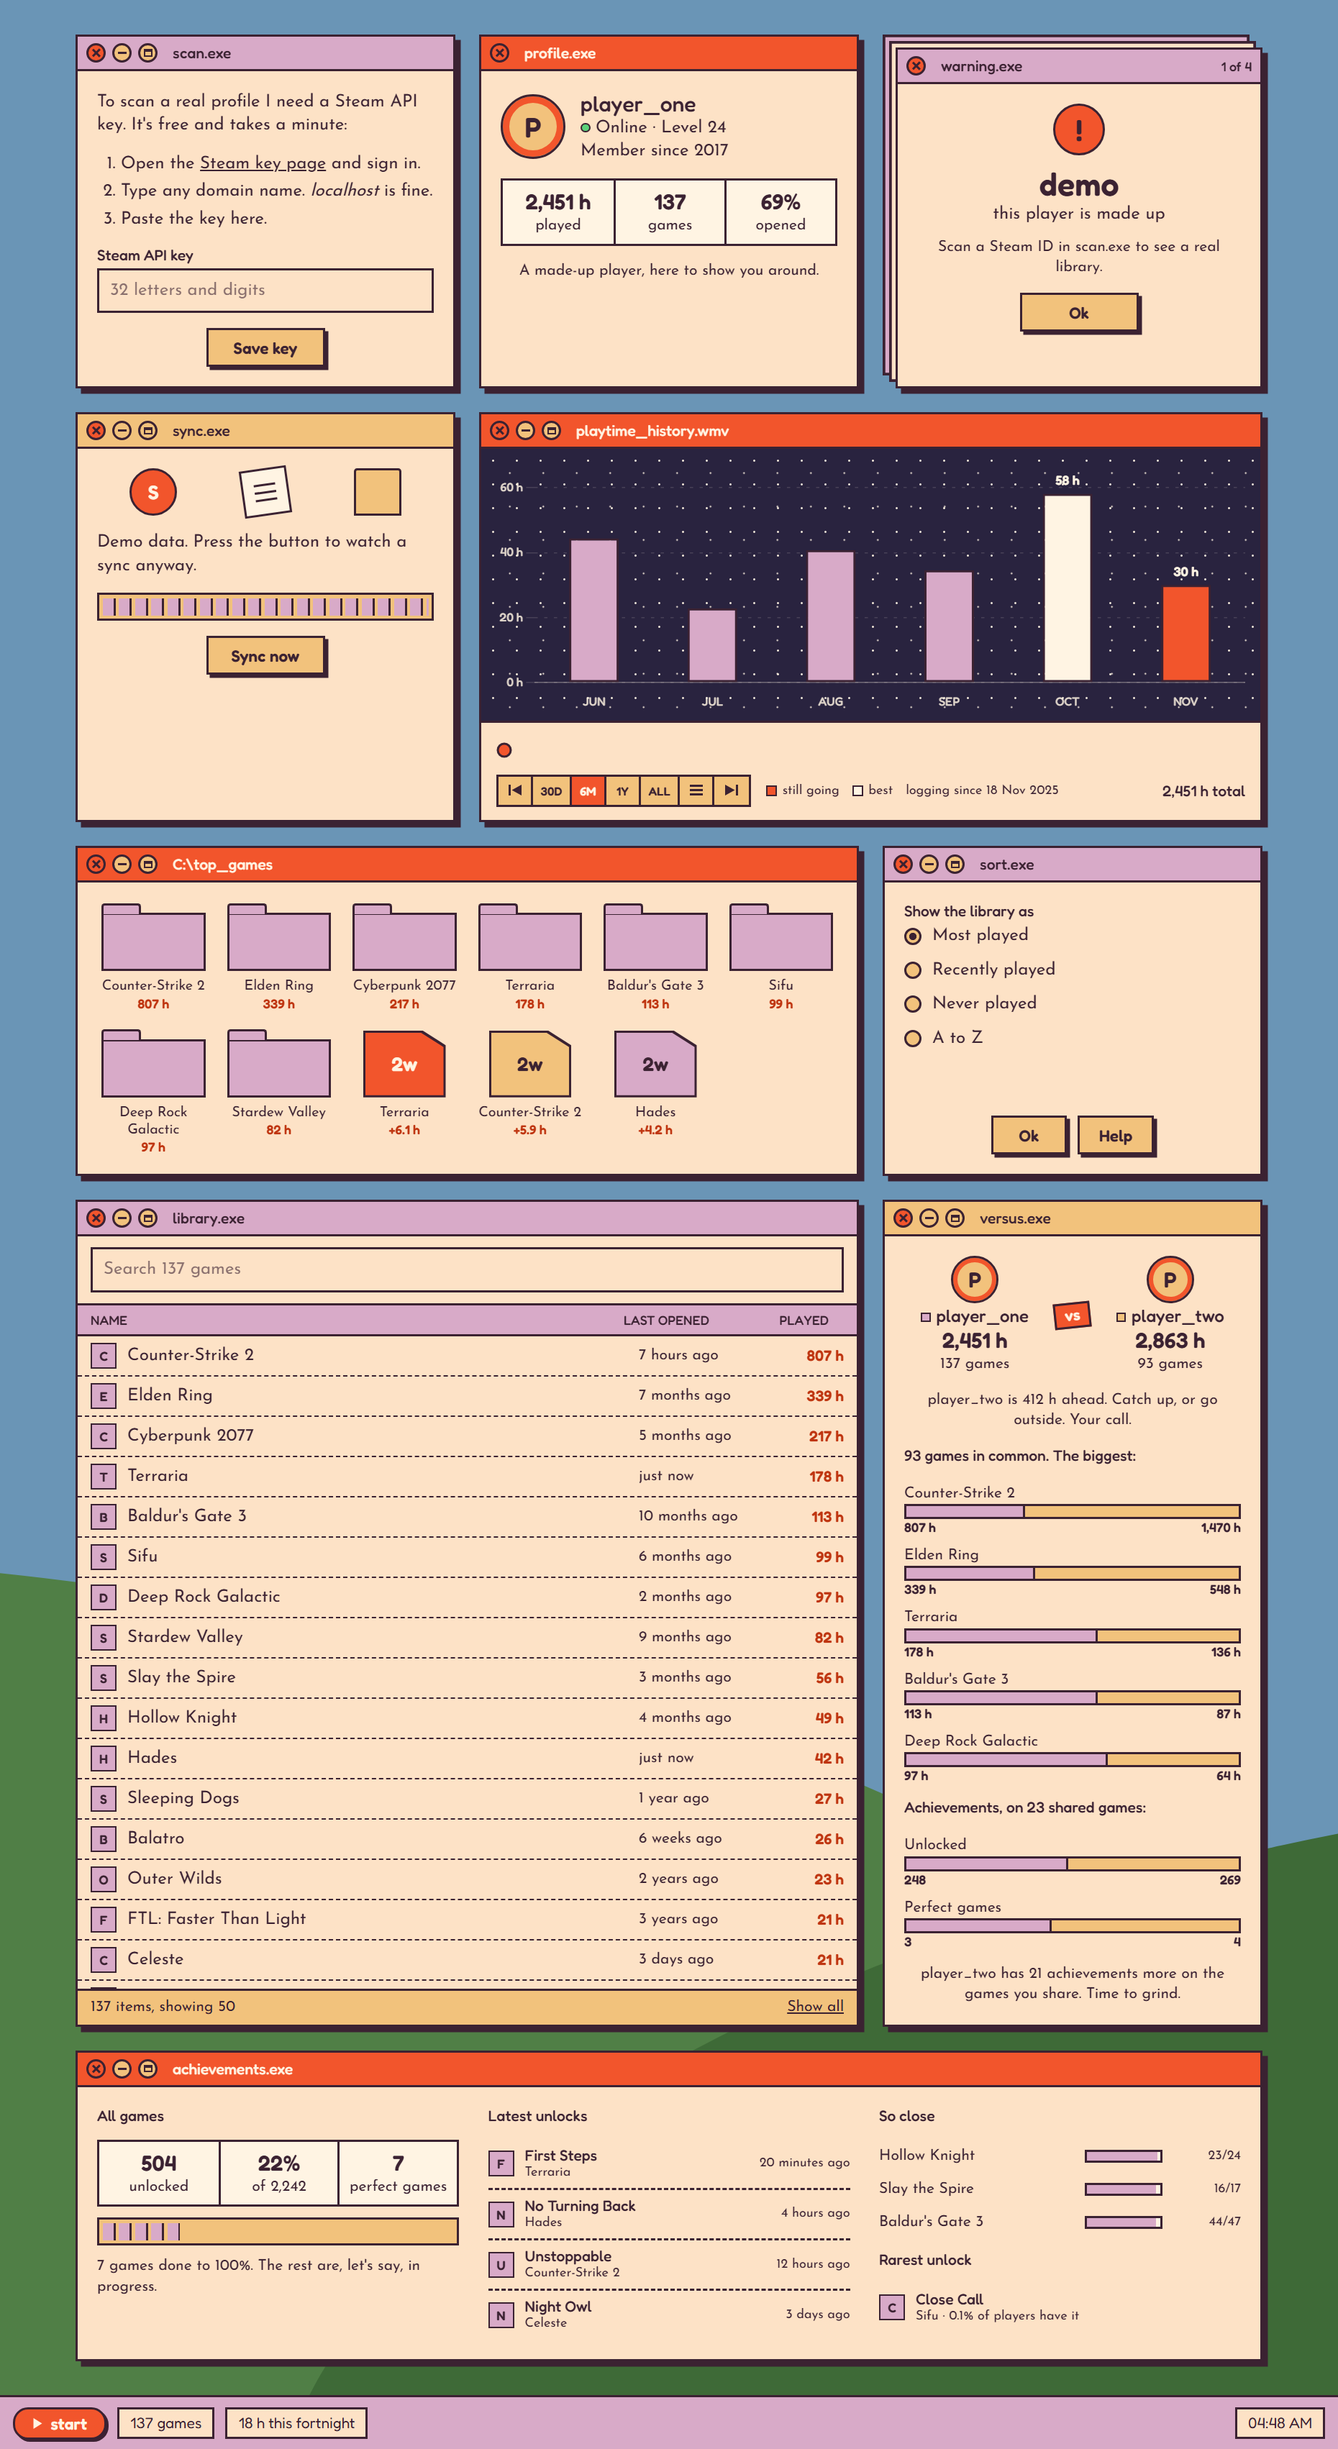
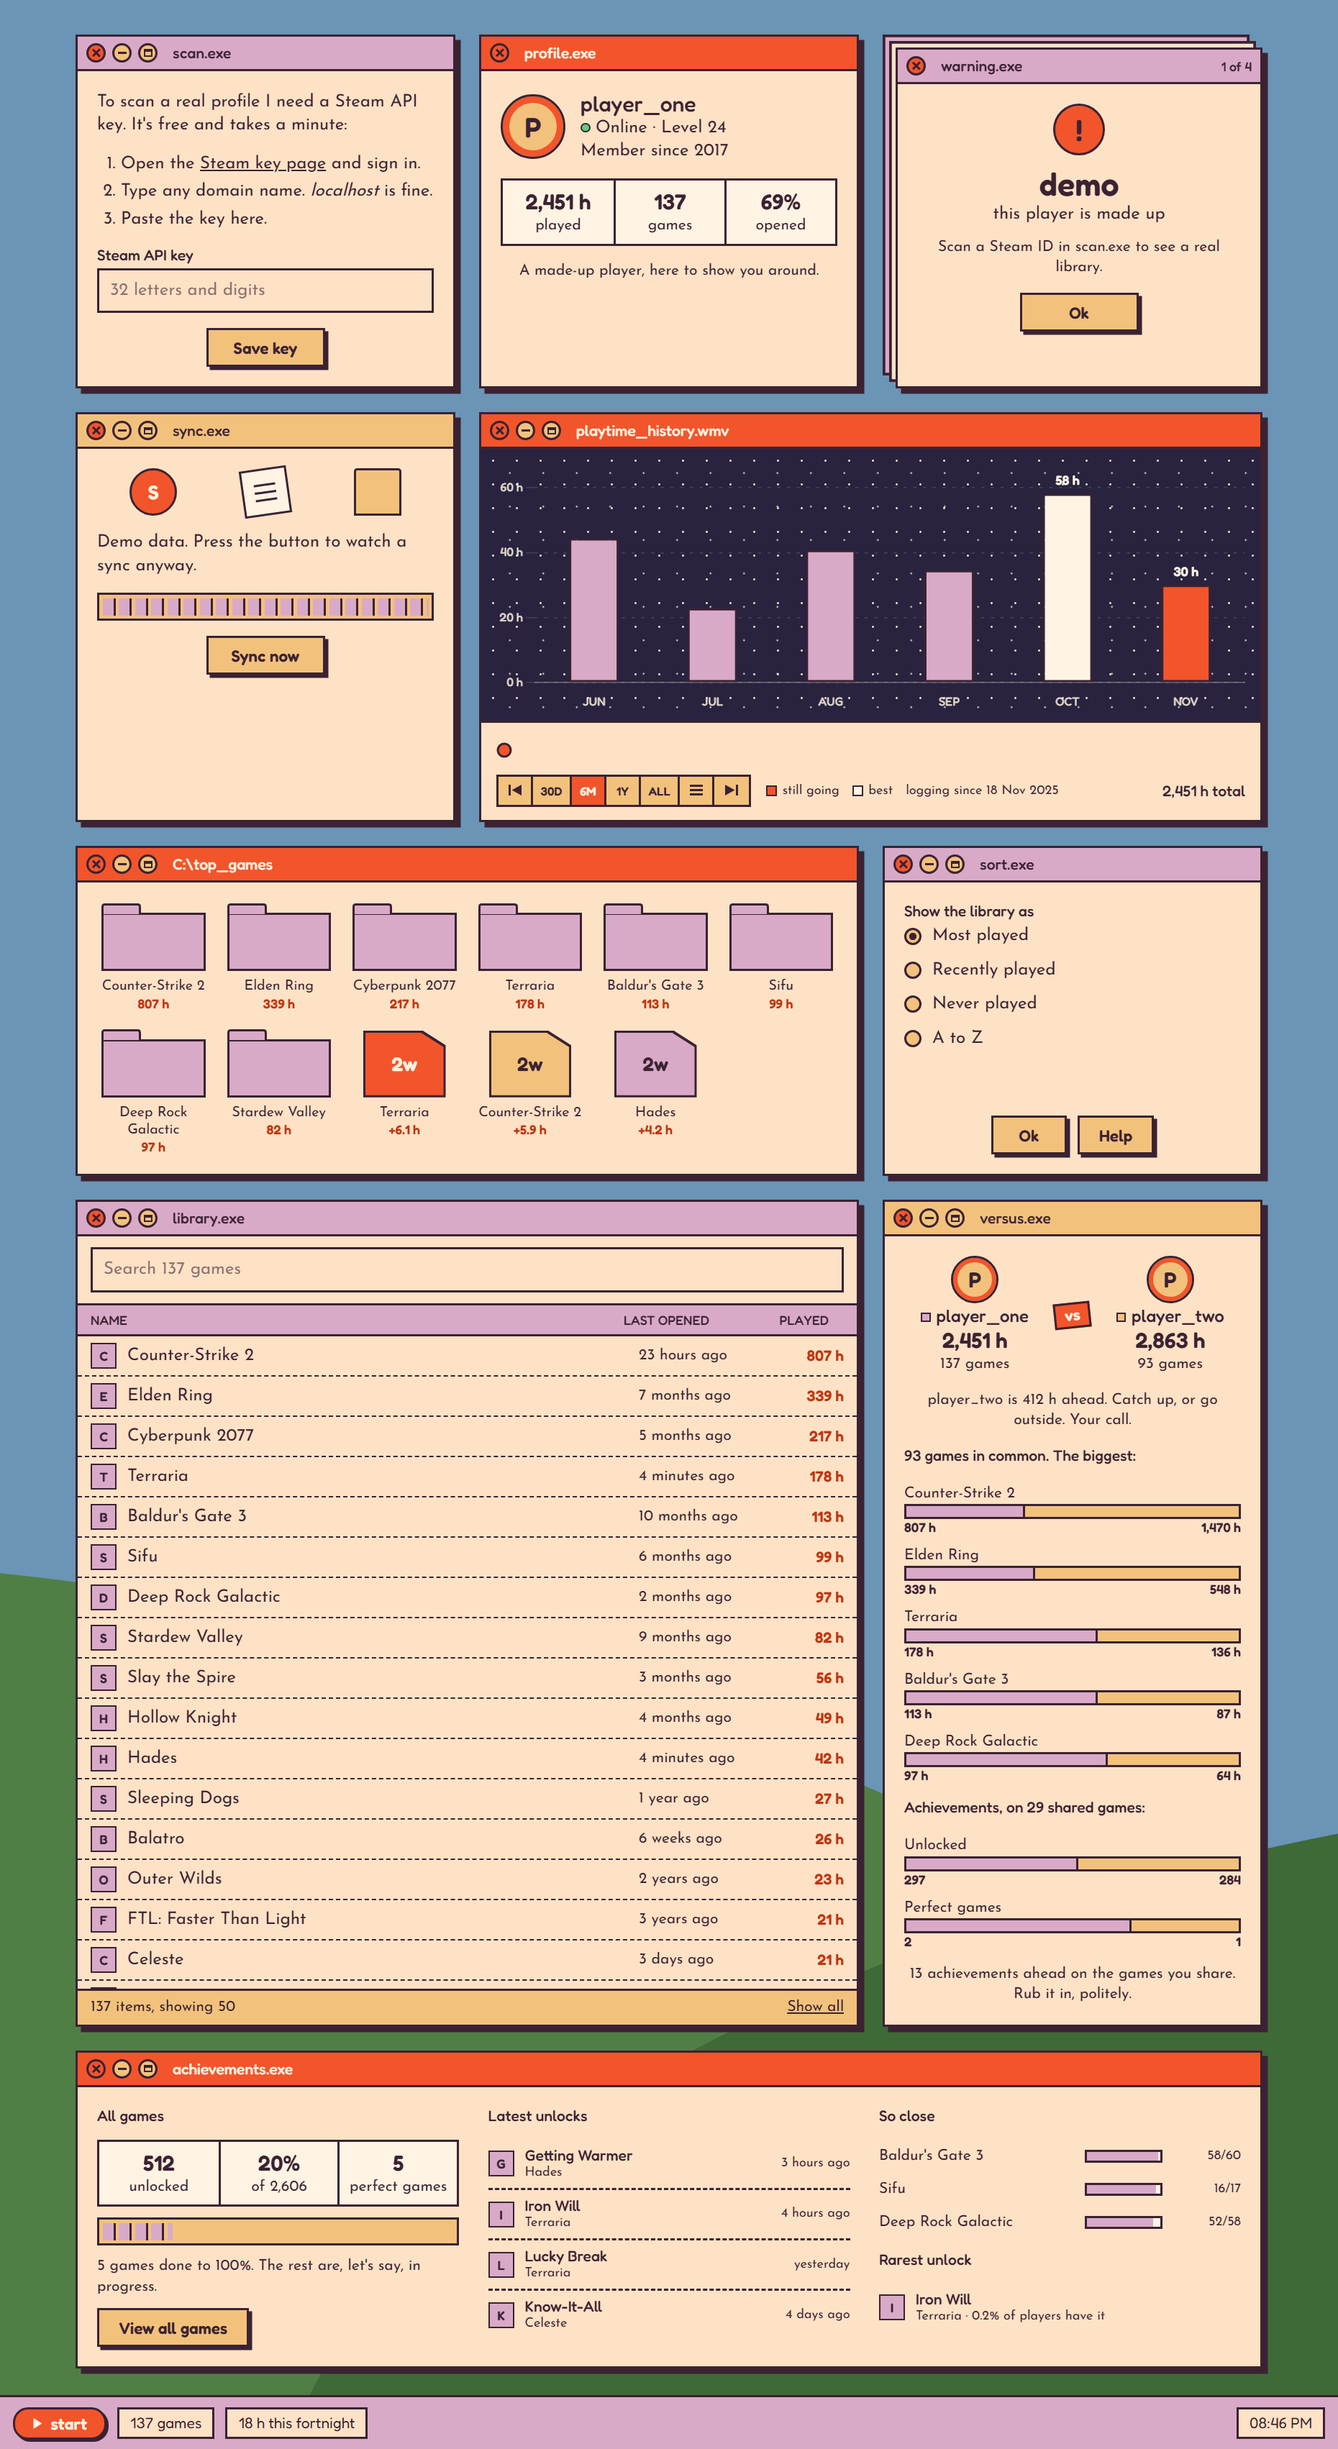
Chart achievements over time, and describe trophies.exe in the README
A fourth track in the media player counts unlocks per month (last year)
or per year (since the first one). "Show the chart" in trophies.exe opens
it. The best-bar and still-going highlighting is now shared with the
playtime history. README, full-page screenshot and a trophies.exe
screenshot updated.

Changed region(s): [[0.0624, 0.8717, 0.9667, 0.9962], [0.7796, 0.7783, 0.8419, 0.8094], [0.6548, 0.8717, 0.7172, 0.9028]]

diff --git a/static/js/charts.js b/static/js/charts.js
@@ -7,7 +7,7 @@
 // Every colour and font is read from theme.css, so a reskin there recolours
 // the charts as well.
 
-import { element, reducedMotion } from "./desktop.js";
+import { element, openWindow, reducedMotion } from "./desktop.js";
 
 const STATE_KEY = "steam-stats-media"; // remembers the track and view across reloads
 const DESCRIBED_BARS = 12; // how many bars get spelled out for screen readers
@@ -48,6 +48,11 @@ export function initCharts() {
     tableOn = !tableOn;
     draw();
   });
+  // A button elsewhere can open the player on one chart: <button data-play-track="achievements.wmv">
+  document.addEventListener("click", (event) => {
+    const button = event.target.closest("[data-play-track]");
+    if (button) playTrack(button.dataset.playTrack);
+  });
 
   const saved = readState();
   tableOn = Boolean(saved.table);
@@ -75,6 +80,14 @@ function showTrack(index, view) {
   renderViewKeys(track);
   renderLegend(track);
   draw();
+}
+
+/** Bring the media player forward on the track with this file name. */
+function playTrack(file) {
+  const index = tracks.findIndex((track) => track.file === file);
+  if (index < 0) return;
+  showTrack(index);
+  openWindow("media");
 }
 
 /** One button per view. A track with a single view needs none. */
@@ -274,7 +287,8 @@ function formatValue(value, unit, { spellOut = false } = {}) {
   const number = value >= 10 ? Math.round(value) : value;
   const text = number.toLocaleString("en", { maximumFractionDigits: 1 });
   if (unit === "h") return `${text} h`;
-  return spellOut ? `${text} ${value === 1 ? "game" : "games"}` : text;
+  if (!spellOut) return text;
+  return `${text} ${value === 1 ? unit.replace(/s$/, "") : unit}`; // "1 unlock", "12 games"
 }
 
 /** Any CSS colour, made see-through. A canvas does the parsing, so theme.css can use any colour format. */

diff --git a/templates/partials/trophies.html b/templates/partials/trophies.html
@@ -42,6 +42,8 @@
   </div>
 
   <div class="btn-row">
+    {# Closes this window and opens the media player on the achievements chart (static/js/charts.js). #}
+    <button class="btn btn--small" type="button" data-action="close" data-play-track="achievements.wmv">Show the chart</button>
     <button class="btn btn--small" type="button" data-action="close">Done</button>
   </div>
 </div>

diff --git a/charts.py b/charts.py
@@ -26,6 +26,7 @@ def build_tracks(player: dict, games: list[dict], summary: dict, today: date | N
         history_track(player, summary, today),
         top_games_track(games, summary),
         backlog_track(games, summary),
+        achievements_track(player, today),
     ]
 
 
@@ -113,12 +114,20 @@ def _history_view(key: str, buckets: list[str], rows: list[dict], size: str) -> 
     logged = {row["bucket"]: row for row in rows}
     values = [round(logged[bucket]["minutes"] / 60, 1) if bucket in logged else 0 for bucket in buckets]
     notes = [f"mostly {logged[bucket]['top_game']}" if bucket in logged else "nothing logged" for bucket in buckets]
+    colors, marked = _mark_best_and_current(values, notes)
+    labels, titles = zip(*(_period_names(bucket, size, many=len(buckets) > 12) for bucket in buckets))
+    return _view(key, list(labels), values, list(titles), notes, colors, marked)
 
-    # Two bars get singled out: the best one in view and the period we're still
-    # in (its bar can still grow). Each also says so in its tooltip and gets its
-    # value printed on it, so the colour is never the only clue.
-    last = len(buckets) - 1
-    colors = ["lilac"] * len(buckets)
+
+def _mark_best_and_current(values: list, notes: list[str]) -> tuple[list[str], list[int]]:
+    """Single out two bars of a time chart: the best one in view and the period we're still in.
+
+    The last bar can still grow, so it's red. Each also says so in its
+    tooltip (`notes` is changed in place) and gets its value printed on it,
+    so the colour is never the only clue. Returns (colors, marked).
+    """
+    last = len(values) - 1
+    colors = ["lilac"] * len(values)
     marked = []
     if any(values):
         best = values.index(max(values))
@@ -129,9 +138,7 @@ def _history_view(key: str, buckets: list[str], rows: list[dict], size: str) -> 
     notes[last] += ", still going"
     if values[last] and last not in marked:
         marked.append(last)
-
-    labels, titles = zip(*(_period_names(bucket, size, many=len(buckets) > 12) for bucket in buckets))
-    return _view(key, list(labels), values, list(titles), notes, colors, marked)
+    return colors, marked
 
 
 def _period_names(bucket: str, size: str, many: bool) -> tuple[str, str]:
@@ -209,3 +216,50 @@ def backlog_track(games: list[dict], summary: dict) -> dict:
             )
         ],
     }
+
+
+# --- Track 4: achievements unlocked over time --------------------------------
+# Steam dates every unlock, so unlike the playtime history this one goes
+# back to the player's first achievement, years before the first scan.
+
+
+def achievements_track(player: dict, today: date) -> dict:
+    steam_id = player["steam_id"]
+    by_year = storage.get_unlock_counts(steam_id, "year")
+    total = sum(row["unlocks"] for row in by_year)
+
+    views = []
+    for key, (size, count) in config.UNLOCK_RANGES.items():
+        if size == "month":
+            buckets = last_months(count, today)
+            counted = storage.get_unlock_counts(steam_id, "month", since=buckets[0])
+        else:
+            first = int(by_year[0]["bucket"]) if by_year else today.year
+            buckets = [str(year) for year in range(first, today.year + 1)]
+            counted = by_year
+        views.append(_unlock_view(key, buckets, counted, size))
+
+    return {
+        "file": "achievements.wmv",
+        "title": "Achievements unlocked over time",
+        "caption": f"{plural(total, 'unlock')} with a date",
+        "footnote": "dated by Steam",
+        "unit": "unlocks",
+        "horizontal": False,
+        "start": next(iter(config.UNLOCK_RANGES)),
+        "legend": [["red", "still going"], ["cream", "best"]],
+        "empty": "No dated unlocks yet. They come in with the next scan, and Steam dates every one.",
+        "views": views,
+    }
+
+
+def _unlock_view(key: str, buckets: list[str], rows: list[dict], size: str) -> dict:
+    counted = {row["bucket"]: row["unlocks"] for row in rows}
+    values = [counted.get(bucket, 0) for bucket in buckets]
+    notes = [plural(value, "unlock") if value else "nothing unlocked" for value in values]
+    colors, marked = _mark_best_and_current(values, notes)
+    if size == "year":
+        labels = titles = buckets
+    else:
+        labels, titles = zip(*(_period_names(bucket, size, many=len(buckets) > 12) for bucket in buckets))
+    return _view(key, list(labels), values, list(titles), notes, colors, marked)

diff --git a/tests/test_charts.py b/tests/test_charts.py
@@ -1,13 +1,13 @@
 """Chart data: the right bars, in the right order, with the right ones highlighted."""
 
 import json
-from datetime import date
+from datetime import date, datetime
 
 import charts
 import config
 import stats
 import storage
-from conftest import make_game, make_profile
+from conftest import make_achievements, make_game, make_profile
 
 ME = "76561198000000001"
 TODAY = date(2026, 11, 17)
@@ -30,9 +30,9 @@ def test_last_months_crosses_new_year():
     assert charts.last_months(1, TODAY) == ["2026-11"]
 
 
-def test_three_tracks_that_survive_a_trip_through_json():
+def test_four_tracks_that_survive_a_trip_through_json():
     tracks = json.loads(json.dumps(build([make_game(1, "Hades", hours=20)]), sort_keys=True))
-    assert [track["file"] for track in tracks] == ["playtime_history.wmv", "top_games.wmv", "backlog.wmv"]
+    assert [track["file"] for track in tracks] == ["playtime_history.wmv", "top_games.wmv", "backlog.wmv", "achievements.wmv"]
     for track in tracks:
         assert track["start"] in [each["key"] for each in track["views"]]
         for each in track["views"]:
@@ -97,3 +97,34 @@ def test_backlog_track_counts_games_per_band():
     assert bands["colors"][0] == "red"
     assert bands["notes"][0] == "50% of your library"
     assert backlog["caption"] == "2 of 4 played"
+
+
+# --- achievements.wmv ---
+
+
+def unlocked_on(*days):
+    """Achievements for game 1, unlocked at noon on each of these days ("2026-11-02")."""
+    achievements = make_achievements(1, unlocked=len(days))
+    for item, day in zip(achievements, days):
+        item["unlocked_at"] = int(datetime.fromisoformat(f"{day}T12:00").timestamp())
+    return achievements
+
+
+def test_achievements_track_counts_unlocks_per_month_and_per_year():
+    games = [make_game(1, "Hades", hours=20)]
+    build(games)
+    storage.save_achievements(ME, 1, 1200, unlocked_on("2023-05-01", "2026-09-10", "2026-11-02", "2026-11-03"))
+    track = build(games)[3]
+    year = view(track, "1Y")
+    assert year["labels"][-1] == "NOV" and len(year["values"]) == 12
+    assert year["values"][-3:] == [1, 0, 2]
+    assert year["colors"][-1] == "red" and "still going" in year["notes"][-1]
+    everything = view(track, "ALL")
+    assert everything["labels"] == ["2023", "2024", "2025", "2026"]  # empty years included
+    assert everything["values"] == [1, 0, 0, 3]
+    assert track["caption"] == "4 unlocks with a date"
+
+
+def test_achievements_track_without_unlocks_is_empty_but_well_formed():
+    track = build([make_game(1, "Hades", hours=20)])[3]
+    assert not any(view(track, "1Y")["values"]) and view(track, "ALL")["labels"] == [str(TODAY.year)]

diff --git a/config.py b/config.py
@@ -77,6 +77,12 @@ HISTORY_RANGES = {
 }
 DEFAULT_HISTORY_RANGE = "6M"
 
+# The same for the achievements chart (bar size "month" or "year"). The first one is shown first.
+UNLOCK_RANGES = {
+    "1Y": ("month", 12),
+    "ALL": ("year", None),
+}
+
 # Edges, in hours, for the "how far did you get" chart.
 # [1, 10, 50, 100] makes: never, under 1 h, 1-10 h, 10-50 h, 50-100 h, 100 h+
 PLAYTIME_EDGES = [1, 10, 50, 100]

diff --git a/README.md b/README.md
@@ -13,12 +13,14 @@ It opens in its own window (not a browser tab), works without an API key thanks 
 - **Top games, recent games and the full library**, sortable and searchable.
 - **warning.exe**: a stack of popups about your habits (how much of your library you never opened, that one game eating a third of your time).
 - **achievements.exe**: how many achievements you've unlocked across your games, your latest unlocks, the games you've nearly finished, and your rarest unlock (with the share of all players who have it). If some played games haven't been checked yet, or Steam keeps a profile's achievements private, the window says so instead of pretending to be complete.
+- **trophies.exe** (View all games in achievements.exe): every game with achievements in one big window, with average completion, perfect games and this year's unlocks at the top. Sort it by latest unlock, closest to perfect, most unlocked, perfect only, not started or A to Z, or search it. Click a game to see every one of its achievements: the unlocked ones with their date and rarity, and the ones still to get, the most common first.
+- **Achievements over time** in the media player: unlocks per month for the last year, or per year since the very first one. Steam dates every unlock, so this chart goes back years, unlike the playtime history.
 - **versus.exe**: compare with a friend, game by game, and on achievements in the games you both own.
 - **wallpaper.exe**: pick a built-in wallpaper, or import your own pictures and dim them so the windows stay readable. Every picture you import stays in a little gallery until you delete it. It's under Start > Change wallpaper.
 - **A working desktop**: drag windows, minimise them to the taskbar, maximise the chart, bring things back from the start menu.
 - **Every scanned player in the start menu**, one click to switch. Done comparing with a friend? The red button next to their name forgets them: the app deletes their library, history and achievements, and their Steam account isn't touched.
 
-[Full-page screenshot](docs/dashboard-full.png)
+[Full-page screenshot](docs/dashboard-full.png) · [trophies.exe](docs/trophies.png)
 
 ## Installing
 
@@ -89,8 +91,8 @@ build_exe.bat  builds the app and its installer
 packaging/     the PyInstaller and Inno Setup recipes build_exe.bat uses
 templates/     one file per window, built from a shared window macro
 static/css/    theme.css (all colours, fonts, sizes) and style.css (layout)
-static/js/     window manager, scan progress, library, charts
-tests/         230 tests; any that tried to reach Steam would fail
+static/js/     window manager, scan progress, library, trophies, charts
+tests/         248 tests; any that tried to reach Steam would fail
 ```
 
 A few decisions worth explaining:
@@ -110,11 +112,11 @@ On my machine the dashboard for a 3,000-game library renders in about 25 ms, and
 ## Making it yours
 
 - **Colours, fonts, outline thickness, spacing:** `static/css/theme.css`. Nothing else contains a colour, and the charts read theirs from the same file.
-- **Behaviour:** `config.py` (how many top games, cache time, chart ranges, alert thresholds, window size, version number, and for achievements: how many games to ask at once, what counts as "so close", how often rarity is refreshed).
+- **Behaviour:** `config.py` (how many top games, cache time, chart ranges, alert thresholds, window size, version number, and for achievements: how many games to ask at once, what counts as "so close", how often rarity is refreshed, how long to wait when Steam says slow down).
 - **The jokes:** `captions.py`.
 - **A new wallpaper pattern:** add a name to `WALLPAPER_PATTERNS` in `config.py` and a `.pattern--<name>` rule in `style.css`. It shows up in wallpaper.exe, preview included. A drawing (like the default, Hills) also gets its shapes in `templates/partials/wallpaper_art.html`.
 - **The Hills colours, or how dim it is:** the `--hills-*` variables in `theme.css`. `--hills-dim: 0` shows it in full colour.
-- **A new sort order:** add one function and one line to `SORT_ORDERS` in `stats.py`. The radio button appears on its own.
+- **A new sort order:** add one function and one line to `SORT_ORDERS` in `stats.py`. The radio button appears on its own. The same goes for trophies.exe and `TROPHY_ORDERS`.
 - **Window order:** reorder the `include` lines in `templates/dashboard.html`.
 
 ## Tests
